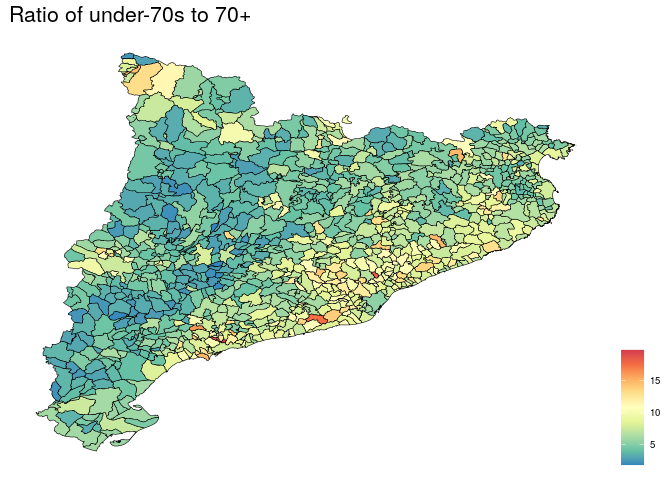
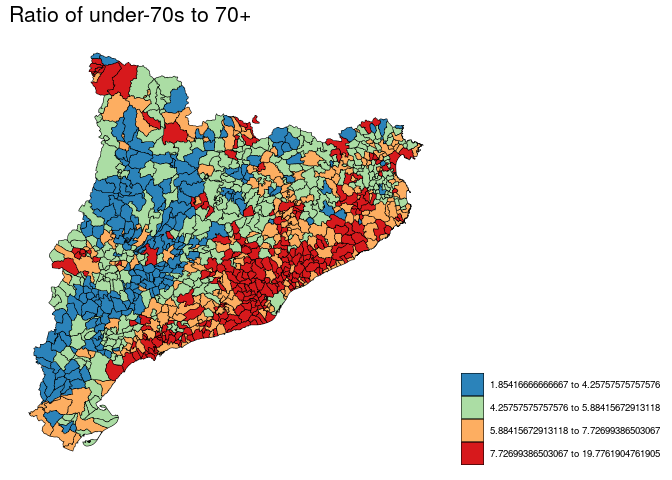
updated

diff --git a/READMEcat.md b/READMEcat.md
@@ -126,8 +126,18 @@ big_right <- map@data
 mapf <- fortify(map, region = 'id')
 
 library(ggthemes)
+
+cut_pretty <- function(x, breaks, collapse=" to ", ...) {
+  it_breaks <- itertools2::ipairwise(breaks)
+  breaks_pretty <- sapply(it_breaks, paste, collapse=collapse)
+  breaks[1] <- floor(breaks[1])
+  breaks[length(breaks)] <- ceiling(breaks[length(breaks)]) 
+  breaks[2:(length(breaks)-1)] <- round(breaks[2:(length(breaks)-1)])
+  cut(x, breaks=breaks, labels=breaks_pretty, ...)
+}
+
 # Define variable for plotting var
-plot_var <- function(var = 'pop', return_table = 0){
+plot_var <- function(var = 'pop', return_table = 0, quant = T){
   sub_map <- mapf
   right <- big_right[,c('id', var)]
   sub_map <- left_join(sub_map, right)
@@ -142,18 +152,37 @@ plot_var <- function(var = 'pop', return_table = 0){
     out <- out[1:return_table,]
     out
   } else {
-    ggplot(data = sub_map,
+    if(quant){
+      x <-cut_pretty(sub_map$var, breaks = quantile(sub_map$var))
+      sub_map$var <- x
+      cols <-  rev(RColorBrewer::brewer.pal(n = 4, name = 'Spectral'))
+       ggplot(data = sub_map,
+         aes(x = long,
+             y = lat,
+             group = group,
+             fill = factor(var))) +
+    geom_polygon(color = 'black',
+         size = 0.2) +
+         theme_map() +
+    theme(plot.title = element_text(size = 16),
+          legend.position = 'right') +
+        scale_fill_manual(name ='',
+                         values  = cols)
+    } else {
+      cols <-  rev(RColorBrewer::brewer.pal(n = 9, name = 'Spectral'))
+      ggplot(data = sub_map,
          aes(x = long,
              y = lat,
              group = group,
              fill = var)) +
     geom_polygon(color = 'black',
          size = 0.2) +
-    theme_map() +
-    scale_fill_gradientn(name ='',
-                         colors  = rev(RColorBrewer::brewer.pal(n = 9, name = 'Spectral'))) +
+            theme_map() +
     theme(plot.title = element_text(size = 16),
-          legend.position = 'right')
+          legend.position = 'right') +
+        scale_fill_gradientn(name ='',
+                         colors  = cols)
+    }
   }
 }
 ```
